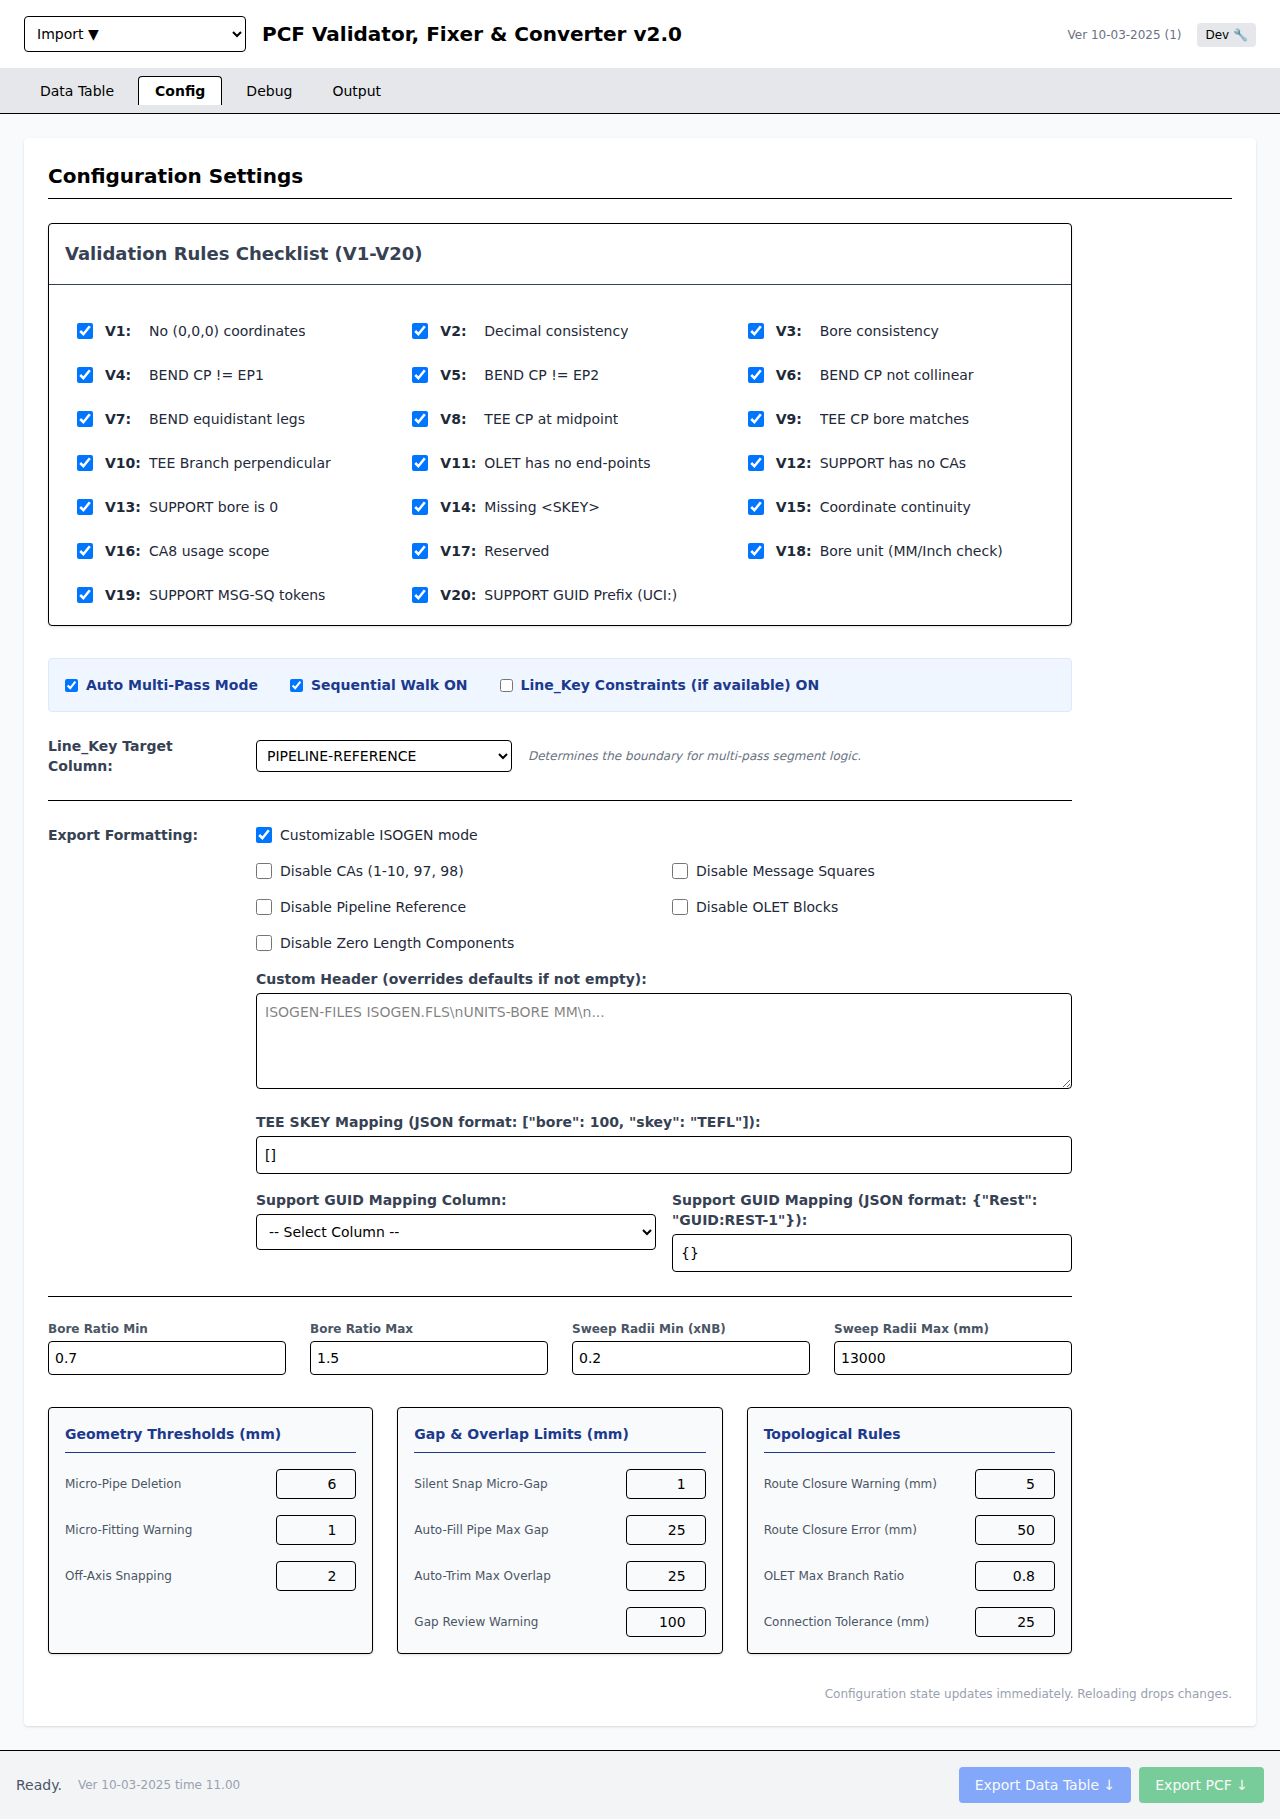
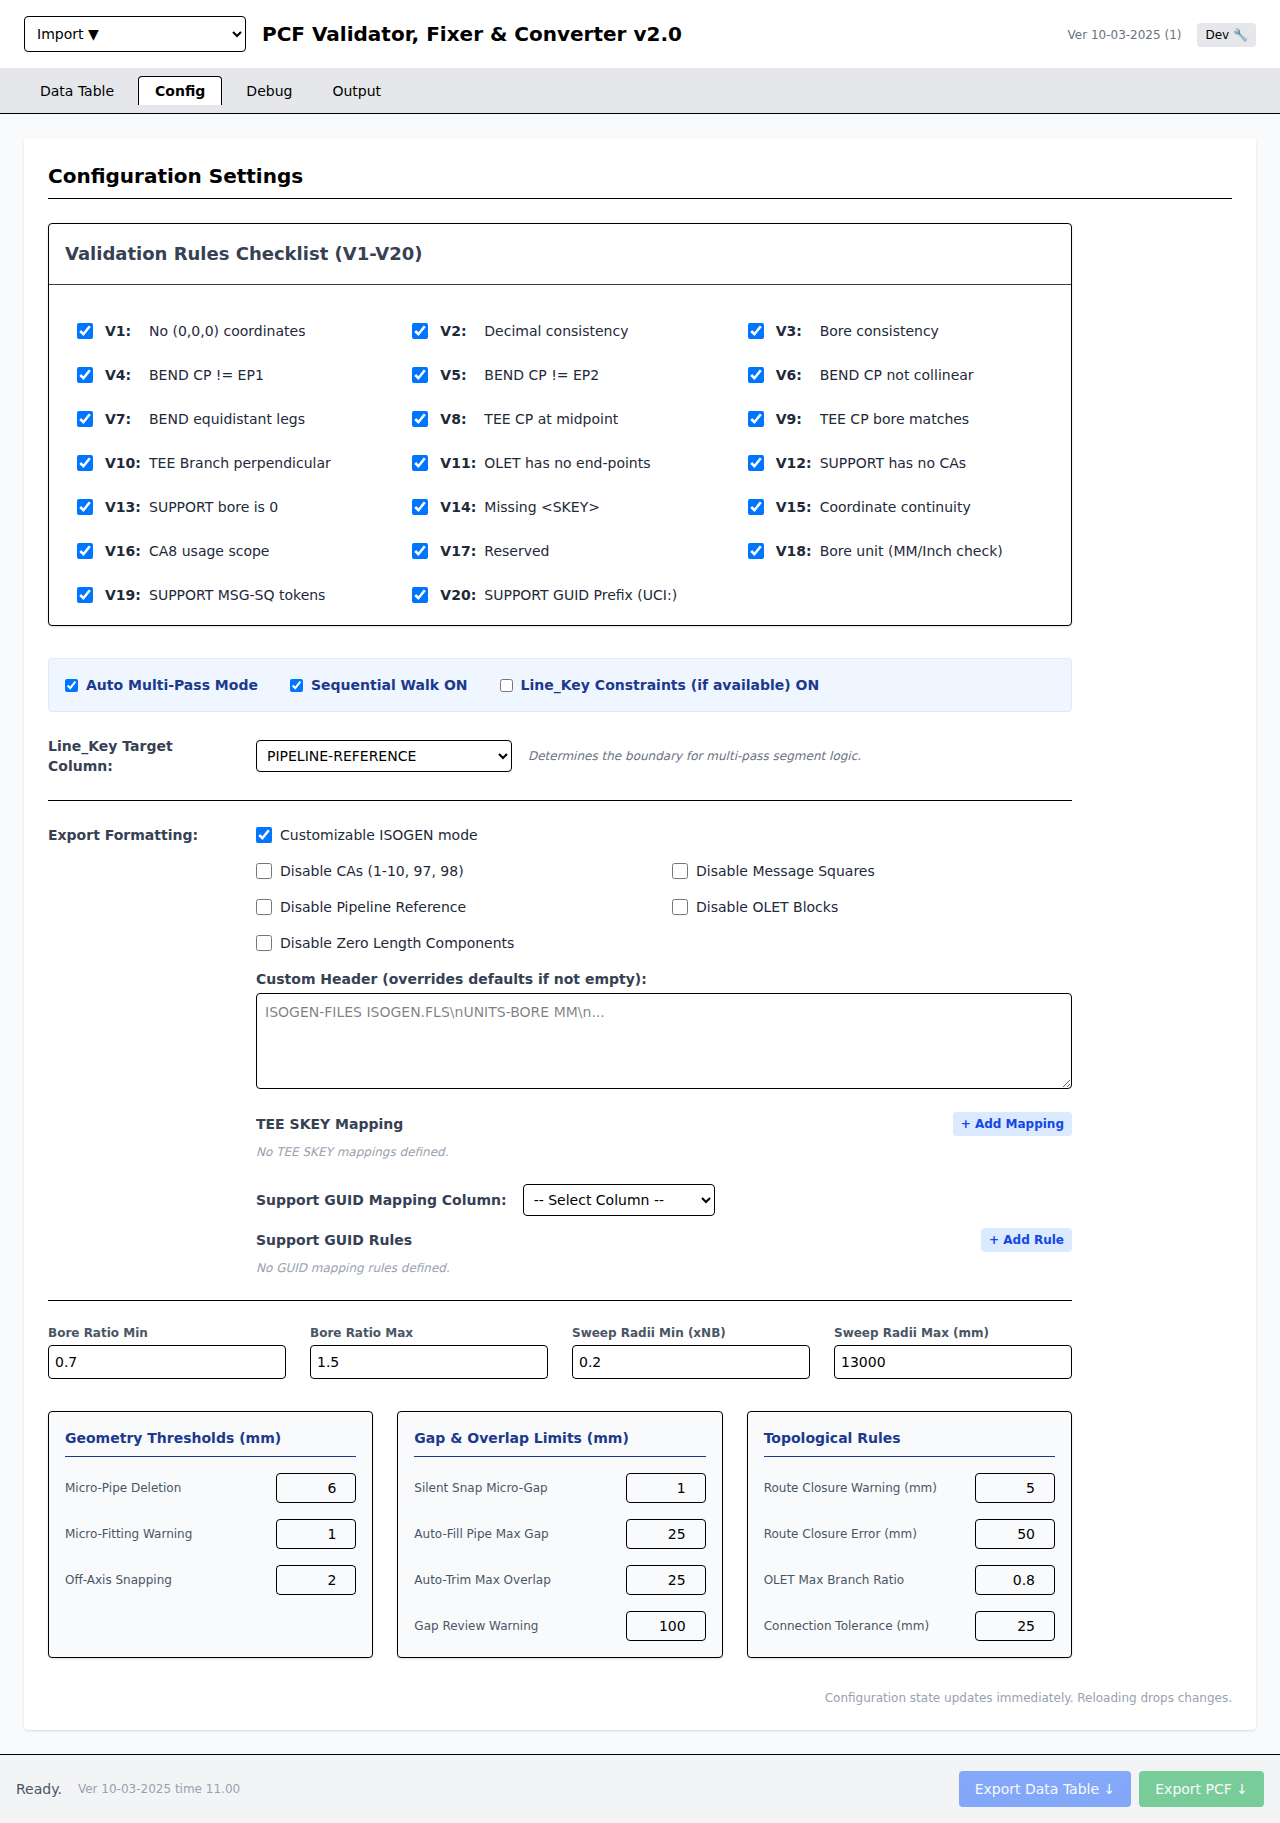
feat: refactor configuration mapping to row-based dropdown UI
- Completely removed error-prone raw JSON textareas for mapping configurations.
- Implemented robust dynamic row-based configuration for TEE SKEY Mapping. Users can now selectively map individual bore dropdowns to custom SKEY text strings.
- Implemented dynamic row-based configuration for Support GUID Rule Mappings.
- UI automatically displays mapping states, populates available sizes from imported `dataTable`, and persists updates cleanly back to global state.

diff --git a/src/components/ConfigTab.jsx b/src/components/ConfigTab.jsx
@@ -1,12 +1,7 @@
-import { useState } from 'react';
 import { useAppContext } from '../core/state';
 
 export function ConfigTab() {
   const { state, dispatch } = useAppContext();
-
-  // Local state for JSON inputs so they can be typed into freely
-  const [teeSkeyMapInput, setTeeSkeyMapInput] = useState(() => JSON.stringify(state.config.teeSkeyMap || []));
-  const [supportGuidMapInput, setSupportGuidMapInput] = useState(() => JSON.stringify(state.config.supportGuidMapping || {}));
 
   // Derive unique headers and sizes from dataTable for dropdowns/UI
   const headers = new Set();
@@ -206,36 +201,72 @@ export function ConfigTab() {
                    />
                </div>
 
-               <div className="pl-52 mt-4 space-y-4">
+               <div className="pl-52 mt-4 space-y-6">
                   <div>
-                      <label className="block text-sm font-semibold text-gray-700 mb-1">
-                          TEE SKEY Mapping (JSON format: [{`"bore": 100, "skey": "TEFL"`}])
-                          {availableTeeSizes.length > 0 && <span className="text-gray-500 font-normal ml-2">Available TEE sizes: {availableTeeSizes.join(', ')}</span>}
-                      </label>
-                      <input type="text" className="w-full border p-2 rounded text-sm"
-                         placeholder='[{"bore": 100, "skey": "TEFL"}]'
-                         value={teeSkeyMapInput}
-                         onChange={(e) => setTeeSkeyMapInput(e.target.value)}
-                         onBlur={(e) => {
-                             try {
-                                 const parsed = JSON.parse(e.target.value);
-                                 if (Array.isArray(parsed)) {
-                                     dispatch({ type: 'SET_CONFIG', payload: { teeSkeyMap: parsed } });
-                                 }
-                             } catch (e) {
-                                 console.log(e);
-                                 // Revert back to valid state if invalid on blur
-                                 setTeeSkeyMapInput(JSON.stringify(state.config.teeSkeyMap || []));
-                             }
-                         }}
-                      />
+                      <div className="flex justify-between items-center mb-2">
+                          <label className="block text-sm font-semibold text-gray-700">
+                              TEE SKEY Mapping
+                          </label>
+                          <button
+                             className="text-xs bg-blue-100 text-blue-700 px-2 py-1 rounded hover:bg-blue-200 font-semibold"
+                             onClick={() => {
+                                 const currentMap = state.config.teeSkeyMap || [];
+                                 dispatch({ type: 'SET_CONFIG', payload: { teeSkeyMap: [...currentMap, { bore: "", skey: "" }] } });
+                             }}
+                          >
+                             + Add Mapping
+                          </button>
+                      </div>
+
+                      <div className="space-y-2">
+                          {(state.config.teeSkeyMap || []).map((mapping, idx) => (
+                              <div key={idx} className="flex items-center space-x-2">
+                                  <select
+                                      className="border p-1.5 rounded text-sm w-32"
+                                      value={mapping.bore || ""}
+                                      onChange={(e) => {
+                                          const newMap = [...(state.config.teeSkeyMap || [])];
+                                          newMap[idx].bore = e.target.value;
+                                          dispatch({ type: 'SET_CONFIG', payload: { teeSkeyMap: newMap } });
+                                      }}
+                                  >
+                                      <option value="">-- Bore --</option>
+                                      {availableTeeSizes.map(size => <option key={size} value={size}>{size}</option>)}
+                                  </select>
+                                  <input
+                                      type="text"
+                                      className="border p-1.5 rounded text-sm flex-1"
+                                      placeholder="SKEY (e.g. TEFL)"
+                                      value={mapping.skey || ""}
+                                      onChange={(e) => {
+                                          const newMap = [...(state.config.teeSkeyMap || [])];
+                                          newMap[idx].skey = e.target.value;
+                                          dispatch({ type: 'SET_CONFIG', payload: { teeSkeyMap: newMap } });
+                                      }}
+                                  />
+                                  <button
+                                      className="text-red-500 hover:text-red-700 font-bold px-2"
+                                      onClick={() => {
+                                          const newMap = [...(state.config.teeSkeyMap || [])];
+                                          newMap.splice(idx, 1);
+                                          dispatch({ type: 'SET_CONFIG', payload: { teeSkeyMap: newMap } });
+                                      }}
+                                  >
+                                      &times;
+                                  </button>
+                              </div>
+                          ))}
+                          {(!state.config.teeSkeyMap || state.config.teeSkeyMap.length === 0) && (
+                              <div className="text-xs text-gray-400 italic">No TEE SKEY mappings defined.</div>
+                          )}
+                      </div>
                   </div>
 
-                  <div className="grid grid-cols-2 gap-4">
-                      <div>
-                          <label className="block text-sm font-semibold text-gray-700 mb-1">Support GUID Mapping Column:</label>
+                  <div>
+                      <div className="flex items-center space-x-4 mb-3">
+                          <label className="block text-sm font-semibold text-gray-700">Support GUID Mapping Column:</label>
                           <select
-                              className="w-full border p-2 rounded text-sm"
+                              className="border p-1.5 rounded text-sm w-48"
                               value={state.config.supportGuidMappingColumn || ""}
                               onChange={(e) => dispatch({ type: 'SET_CONFIG', payload: { supportGuidMappingColumn: e.target.value } })}
                           >
@@ -255,25 +286,73 @@ export function ConfigTab() {
                               )}
                           </select>
                       </div>
-                      <div>
-                          <label className="block text-sm font-semibold text-gray-700 mb-1">Support GUID Mapping (JSON format: {`{"Rest": "GUID:REST-1"}`}):</label>
-                          <input type="text" className="w-full border p-2 rounded text-sm"
-                             placeholder='{"Rest": "GUID:REST-1", "Guide": "GUID:GD-1"}'
-                             value={supportGuidMapInput}
-                             onChange={(e) => setSupportGuidMapInput(e.target.value)}
-                             onBlur={(e) => {
-                                 try {
-                                     const parsed = JSON.parse(e.target.value);
-                                     if (typeof parsed === 'object' && !Array.isArray(parsed)) {
-                                         dispatch({ type: 'SET_CONFIG', payload: { supportGuidMapping: parsed } });
-                                     }
-                                 } catch (e) {
-                                     console.log(e);
-                                     // Revert to valid state on blur if invalid
-                                     setSupportGuidMapInput(JSON.stringify(state.config.supportGuidMapping || {}));
-                                 }
+
+                      <div className="flex justify-between items-center mb-2">
+                          <label className="block text-sm font-semibold text-gray-700">
+                              Support GUID Rules
+                          </label>
+                          <button
+                             className="text-xs bg-blue-100 text-blue-700 px-2 py-1 rounded hover:bg-blue-200 font-semibold"
+                             onClick={() => {
+                                 // To manage arrays in UI for an object map, we'll store a helper array in state if needed
+                                 // Since state.config.supportGuidMapping is an object like {"Rest": "GUID:REST-1"}
+                                 // We map it to an array of [key, val] for rendering
+                                 const currentObj = state.config.supportGuidMapping || {};
+                                 const nextKey = `Keyword_${Object.keys(currentObj).length + 1}`;
+                                 dispatch({
+                                     type: 'SET_CONFIG',
+                                     payload: { supportGuidMapping: { ...currentObj, [nextKey]: "" } }
+                                 });
                              }}
-                          />
+                          >
+                             + Add Rule
+                          </button>
+                      </div>
+
+                      <div className="space-y-2">
+                          {Object.entries(state.config.supportGuidMapping || {}).map(([keyword, guidValue], idx) => (
+                              <div key={idx} className="flex items-center space-x-2">
+                                  <input
+                                      type="text"
+                                      className="border p-1.5 rounded text-sm w-1/3"
+                                      placeholder="Match Keyword (e.g. Rest)"
+                                      value={keyword}
+                                      onChange={(e) => {
+                                          const newKey = e.target.value;
+                                          const currentObj = { ...(state.config.supportGuidMapping || {}) };
+                                          const val = currentObj[keyword];
+                                          delete currentObj[keyword];
+                                          currentObj[newKey] = val;
+                                          dispatch({ type: 'SET_CONFIG', payload: { supportGuidMapping: currentObj } });
+                                      }}
+                                  />
+                                  <span className="text-gray-400 text-xs">&rarr;</span>
+                                  <input
+                                      type="text"
+                                      className="border p-1.5 rounded text-sm flex-1"
+                                      placeholder="Export GUID (e.g. GUID:REST-1)"
+                                      value={guidValue}
+                                      onChange={(e) => {
+                                          const currentObj = { ...(state.config.supportGuidMapping || {}) };
+                                          currentObj[keyword] = e.target.value;
+                                          dispatch({ type: 'SET_CONFIG', payload: { supportGuidMapping: currentObj } });
+                                      }}
+                                  />
+                                  <button
+                                      className="text-red-500 hover:text-red-700 font-bold px-2"
+                                      onClick={() => {
+                                          const currentObj = { ...(state.config.supportGuidMapping || {}) };
+                                          delete currentObj[keyword];
+                                          dispatch({ type: 'SET_CONFIG', payload: { supportGuidMapping: currentObj } });
+                                      }}
+                                  >
+                                      &times;
+                                  </button>
+                              </div>
+                          ))}
+                          {Object.keys(state.config.supportGuidMapping || {}).length === 0 && (
+                              <div className="text-xs text-gray-400 italic">No GUID mapping rules defined.</div>
+                          )}
                       </div>
                   </div>
                </div>
